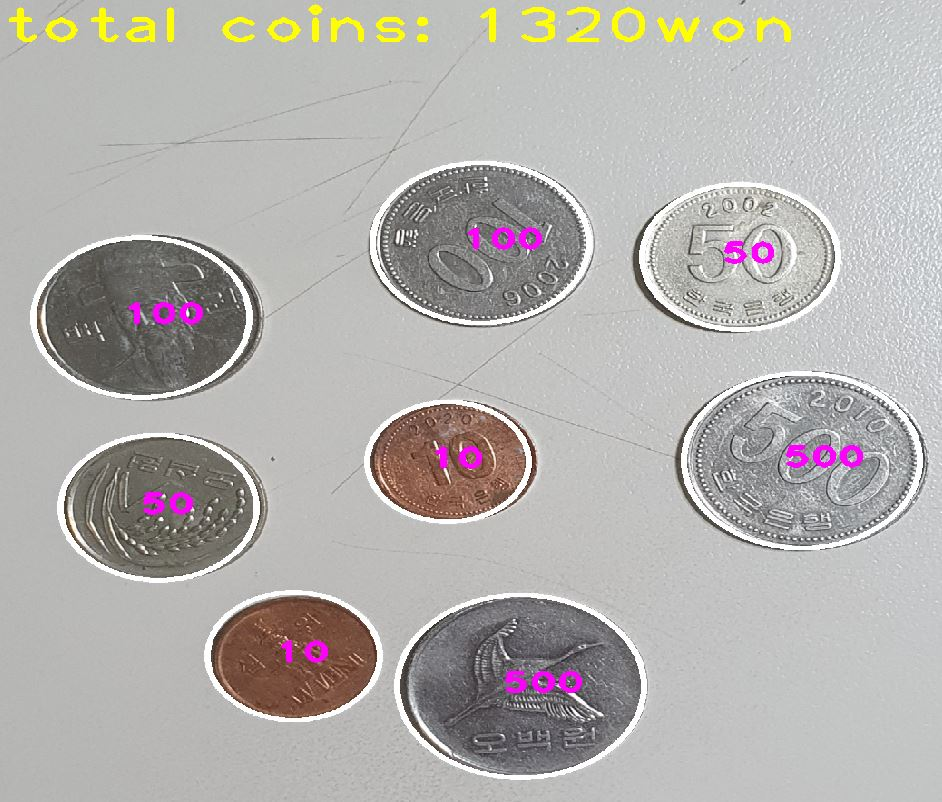
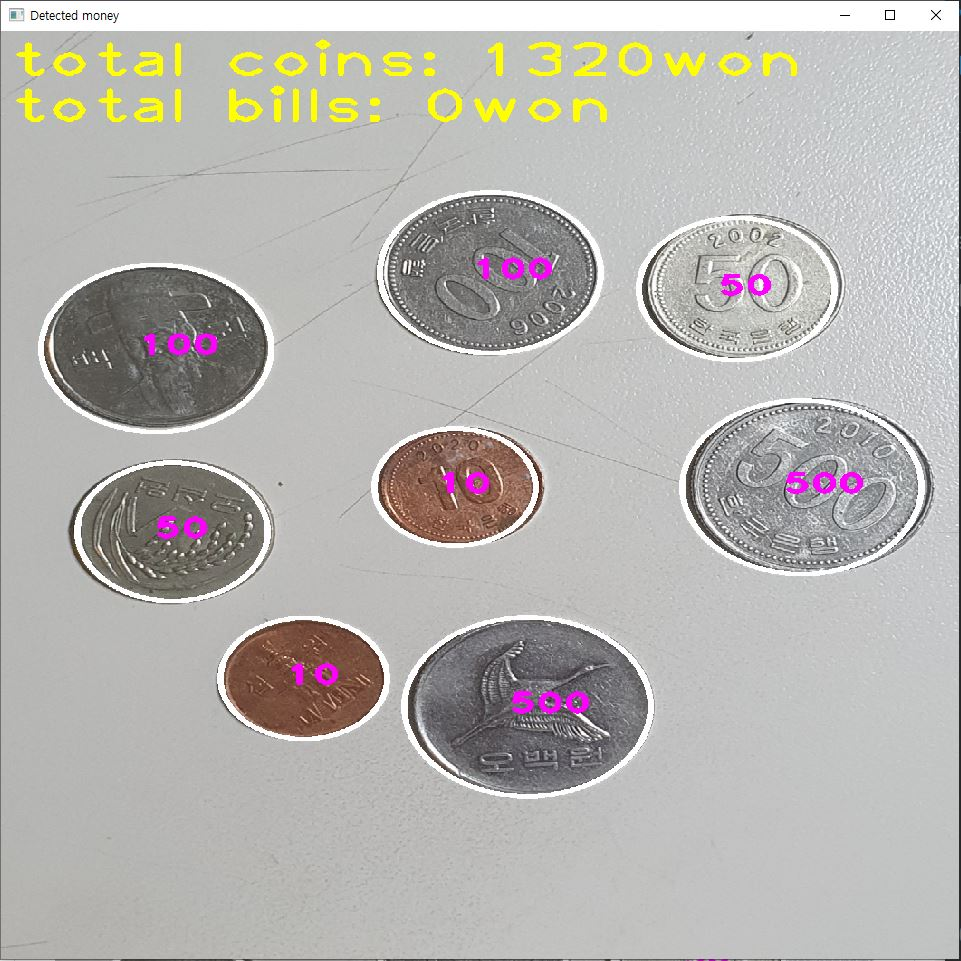
updated result images

diff --git a/README.md b/README.md
@@ -5,6 +5,9 @@
 
 ![coin_recogization result](https://github.com/juno-gachon/coin_recognizer/blob/master/image/coin_result.jpg)
 
+![bill_recognization_result](https://github.com/juno-gachon/coin-recognizer/blob/mastet/image/bill_result.jpg)
+
+
 #### Basic information
 distance from target : 20cm  
 picture source : Galaxy S10+, zoom level 2  
